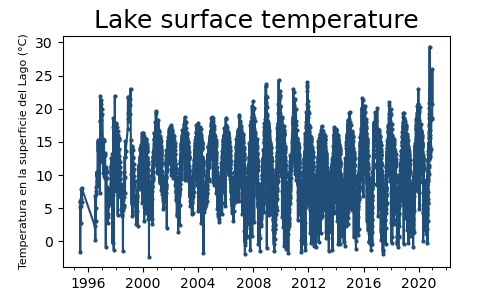
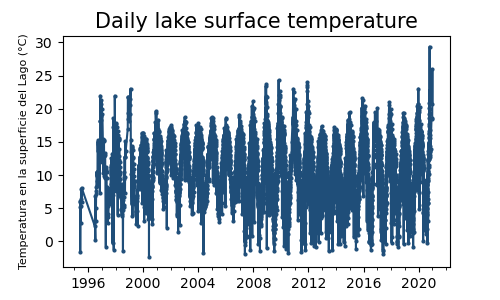
Lakes_cci notebook update

Changed region(s): [[0.18, 0.03, 0.84, 0.12]]

diff --git a/src/lakeclimate/cci.py b/src/lakeclimate/cci.py
@@ -36,25 +36,31 @@ def extract_variable_timeseries(lake_id, varname, date_range, maskfile, version 
     mindate = max([mindate, datetime.datetime(1992,9,26)])
     maxdate = min([maxdate, datetime.datetime(2022,12,31)]) 
 
-    mask_lake,  miny, maxy, minx, maxx = build_lake_mask(maskfile, lake_id)
+    mask_lake, miny, maxy, minx, maxx = build_lake_mask(maskfile, lake_id)
     date_vec, data_vec = [], []   
+
     for data_date in np.arange(mindate.toordinal(), maxdate.toordinal()+1):
+
         current_date = datetime.datetime.fromordinal(data_date)
         date_str = current_date.strftime("%Y%m%d")
+
         path = 'dap2://data.cci.ceda.ac.uk/thredds/dodsC/esacci/lakes/data/lake_products/L3S/v2.1/merged_product/'
         path += f'{current_date.year}/{current_date.month:02}/'
         path += f'ESACCI-LAKES-L3S-LK_PRODUCTS-MERGED-{date_str}-fv{version}.0.nc?{varname}'
+        
         dataset = xr.open_dataset(path, engine="pydap")
-        # extract data in the defined zones
         dataset = dataset.isel(lat=slice(miny, maxy+1), lon=slice(minx, maxx+1))
         filval = dataset[varname].encoding.get('_FillValue', np.nan)
         data = dataset[varname][0,:,:].values.copy()
         dataset.close()
+
         units  = dataset[varname].units
         data[data == filval] = np.nan
         data[mask_lake == 0] = np.nan
+
         if np.isnan(data).all() :
             continue
+        
         date_vec.append(date_str)
         data_vec.append(np.nanmean(data))
         df = pd.DataFrame({'date': date_vec, varname: data_vec})
